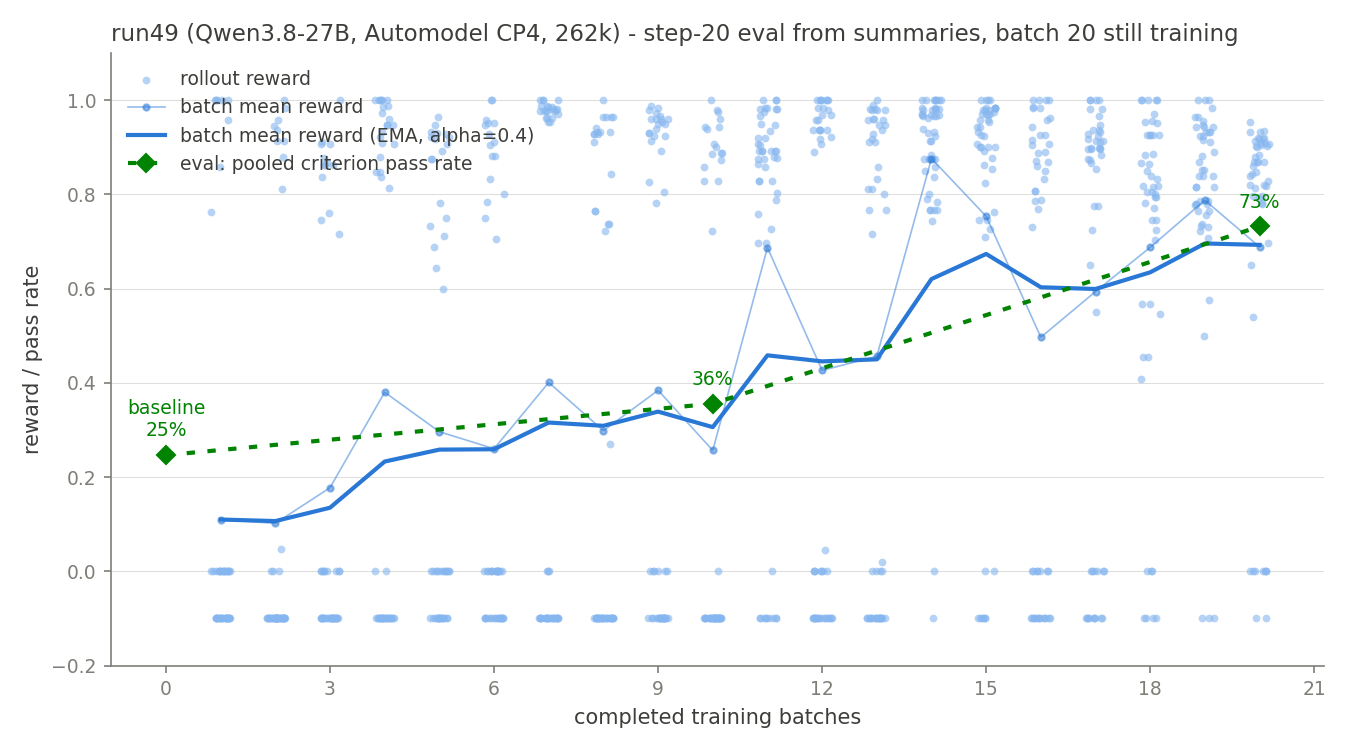
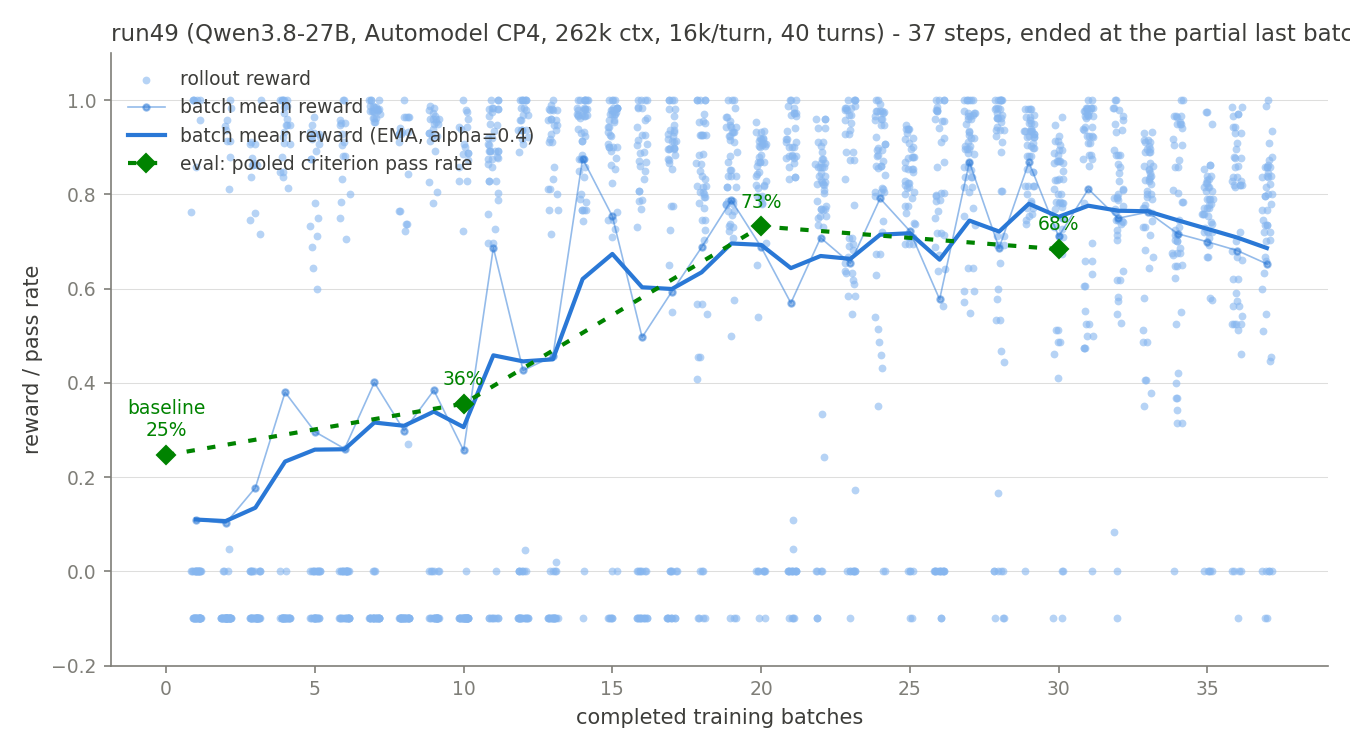
run49 report: final plot and outcome through step 37

diff --git a/docs/reports/run49/README.md b/docs/reports/run49/README.md
@@ -44,3 +44,19 @@ CP4 shards the sequence itself and reaches the model's full 262144 window with
 GPUs 0-3 at CP4, four single-GPU vLLM samplers at max-model-len 262144, LoRA
 rank 32, lr 2e-4, batch 8 x 6, 16k generation, 4k tool results, GLM judge
 (`gpt-glm-5.2` on b200-vm), medium-reasoning Qwen3.8 renderer.
+
+## Outcome
+
+37 of 38 steps trained; the run hung at step 37, minibatch 3/8, because the
+last batch of a 300-task split holds only 4 groups while the streaming loop
+waits for 8 (run50 uses 304 tasks). The final eval therefore did not run; the
+last published adapter is saved on the box for a standalone eval.
+
+| held-out, 50 tasks | step 0 | step 10 | step 20 | step 30 |
+|---|---|---|---|---|
+| criterion pass rate | 22.6% | 37.0% | 74.4% | 69.9% |
+| all criteria passed | 0 | 0 | 1 | 1 |
+
+Train reward EMA went 0.11 to ~0.7. The step-0 baseline was depressed by the
+16k per-turn cap (27 of 50 eval episodes killed before grading); run50 lifts
+that cap. Plot: `run49.png` (recipe `harvey-plot`, all 37 steps).
